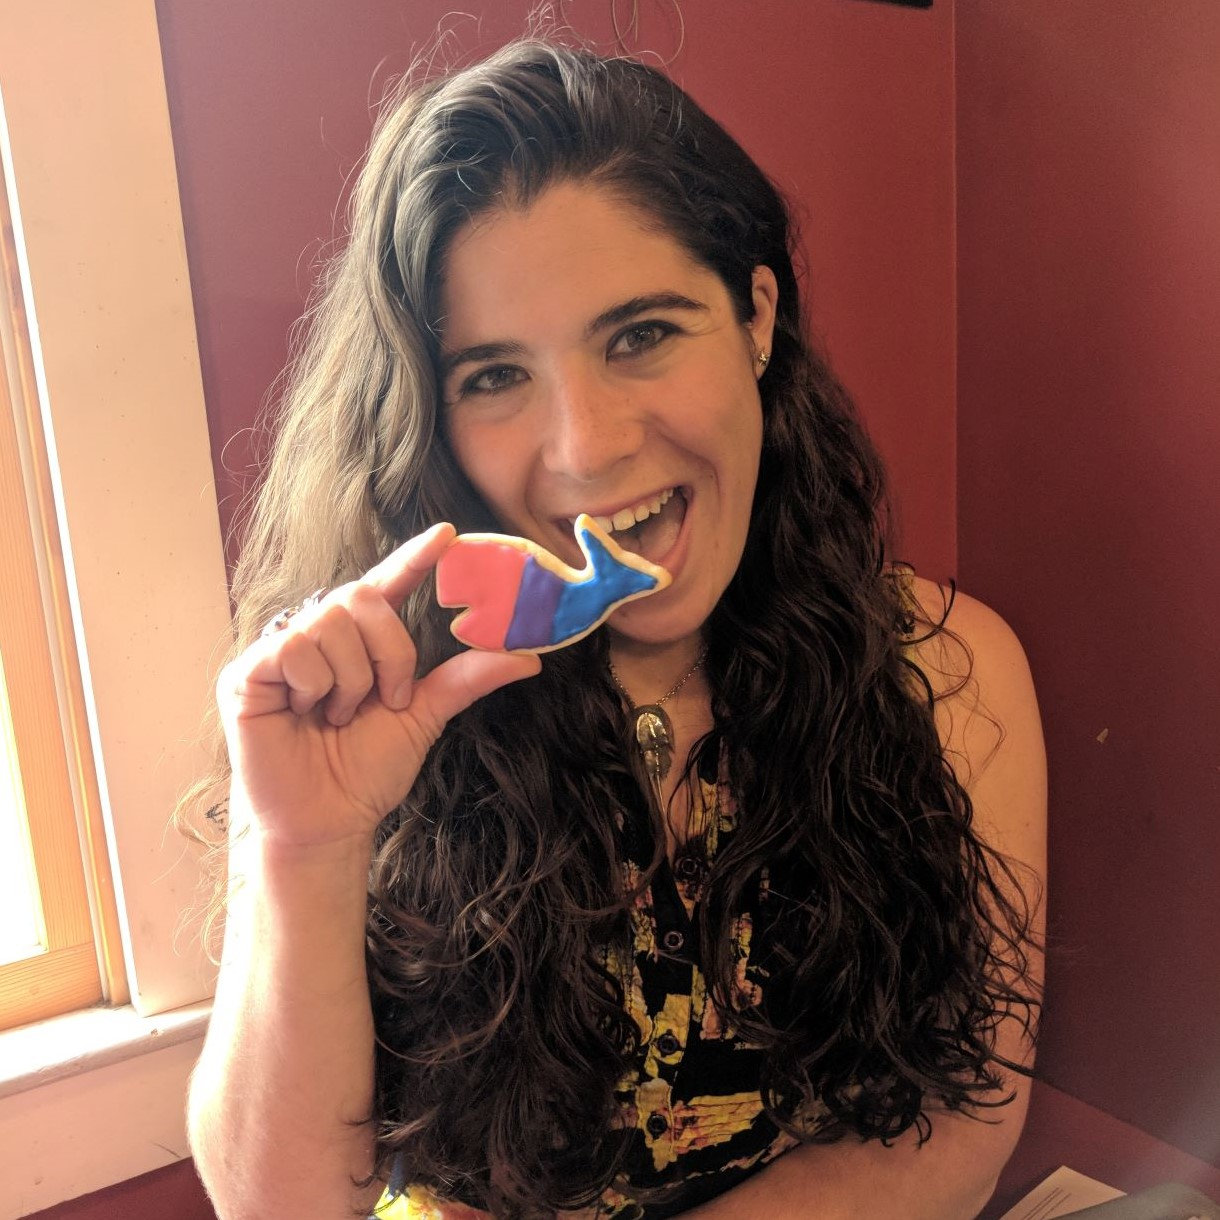
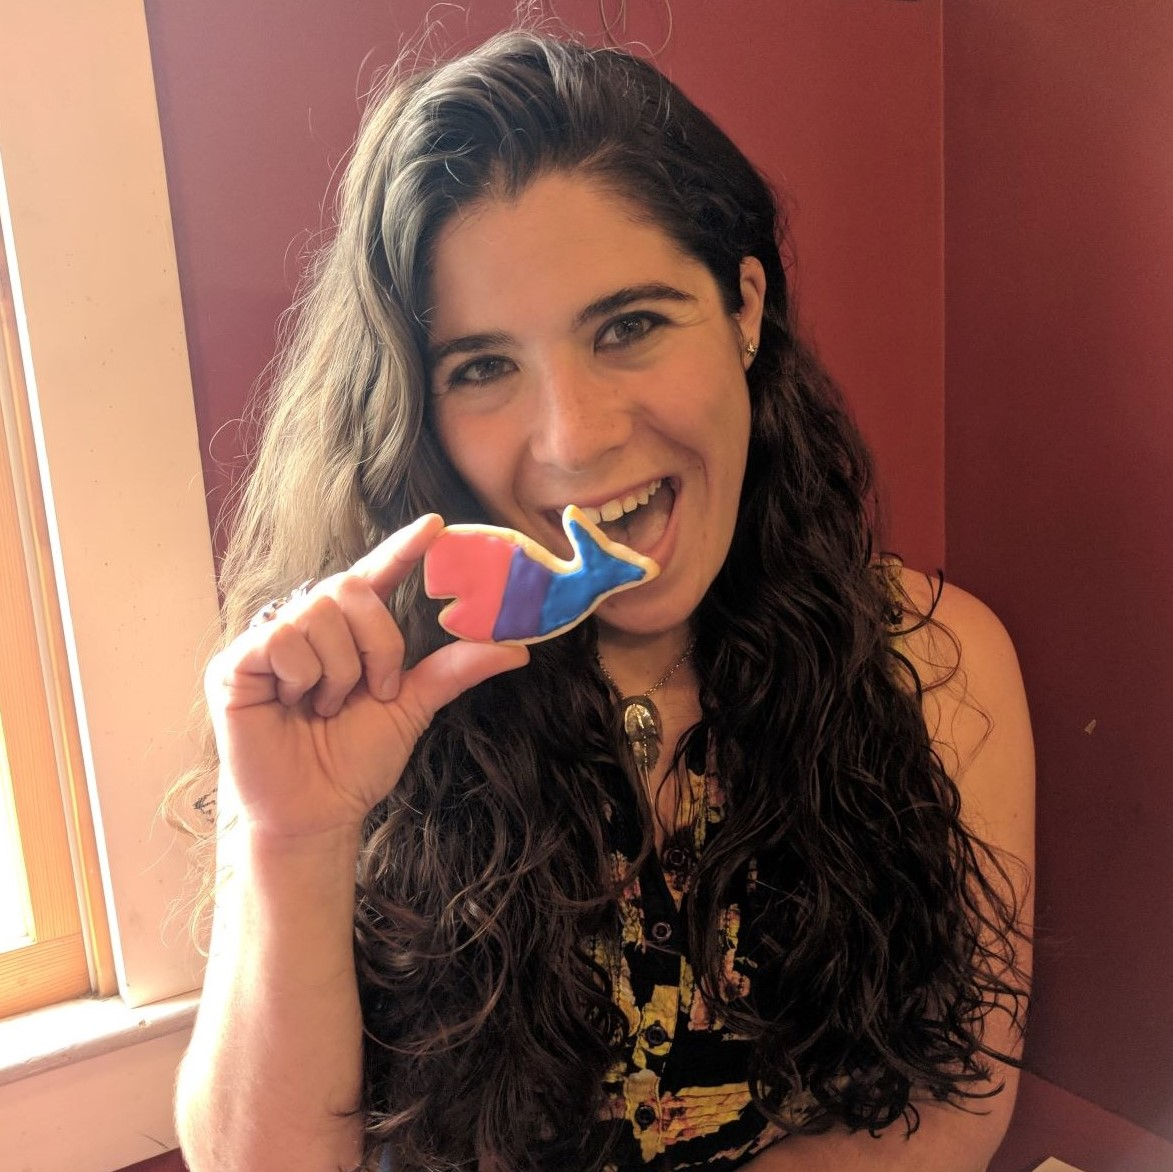
test background images, phoebe/sarah profile pics

diff --git a/about.md b/about.md
@@ -22,7 +22,7 @@ woDNA is composed of 4 AWESOME ladies. we can have photos of us and a little blu
 |Jennifer Smith-Mayo (Jen) is a Communication Ph.D. student at the University of Maine in Orono, Maine. Her advisors are Dr. Bridie McGreavy, Associate Professor of the Department of Communication and Journalism, and Dr. Heather Leslie, Associate Professor of the School of Marine Sciences. Jen’s research areas of interest are science communication, visual communication, and rhetoric. She’s also curious how immersive technology (e.g., an underwater drone or GoPro) and storytelling may offer ways for communities to engage more deeply with the environment, especially our streams, lakes, and oceans. Jen has an extensive background as a photographer and videographer and she lives in Maine with her husband, author Matthew P. Mayo, and their pup, Miss Tess.|Rene Francolini is a PhD student jointly advised by Damian Brady at University of Maine’s Darling Marine Center and Doug Rasher at Bigelow Laboratory for Ocean Sciences. Rene earned her B.S. in Biological Sciences as well as her M.S. in Computational Biology from Carnegie Mellon University. Rene is interested in the impact that climate change has on our coastal environments – particularly on the kelp forests of the Gulf of Maine. Combining field work, computer science, and laboratory work, she is investigating the how the kelp forests and associated ecosystem are adapting and responding to our changing climate. When not in the lab, you can find her enjoying time out in nature, gardening, searching for horseshoe crabs, or baking intricately designed (and sometimes science themed) baked goods! |
 
 
-| `SARAH RISLEY` | `PHOEBE JEKELEIK` |
+| **SARAH RISLEY** | **PHOEBE JEKELEIK** |
 | --- |  --- |
-| ![Jen](https://maine-wodna.github.io/assets/images/JenProfile.jpg) | ![Rene](https://maine-wodna.github.io/assets/images/ReneProfile.jpg)|
+| ![Jen](https://maine-wodna.github.io/assets/images/SarahProfile.jpeg) | ![Rene](https://maine-wodna.github.io/assets/images/PhoebeProfile.jpg)|
 |Jennifer Smith-Mayo (Jen) is a Communication Ph.D. student at the University of Maine in Orono, Maine. Her advisors are Dr. Bridie McGreavy, Associate Professor of the Department of Communication and Journalism, and Dr. Heather Leslie, Associate Professor of the School of Marine Sciences. Jen’s research areas of interest are science communication, visual communication, and rhetoric. She’s also curious how immersive technology (e.g., an underwater drone or GoPro) and storytelling may offer ways for communities to engage more deeply with the environment, especially our streams, lakes, and oceans. Jen has an extensive background as a photographer and videographer and she lives in Maine with her husband, author Matthew P. Mayo, and their pup, Miss Tess.| Rene is a PhD student jointly advised by Damian Brady at University of Maine’s Darling Marine Center and Doug Rasher at Bigelow Laboratory for Ocean Sciences. Rene earned her B.S. in Biological Sciences as well as her M.S. in Computational Biology from Carnegie Mellon University. Rene is interested in the impact that climate change has on our coastal environments – particularly on the kelp forests of the Gulf of Maine. Combining field work, computer science, and laboratory work, she is investigating the how the kelp forests and associated ecosystem are adapting and responding to our changing climate. When not in the lab, you can find her enjoying time out in nature, gardening, searching for horseshoe crabs, or baking intricately designed (and sometimes science themed) baked goods! |

diff --git a/Collection/HorizontalSupplies2.md b/Collection/HorizontalSupplies2.md
@@ -8,10 +8,10 @@ header:
 article_header:
   type: overlay
   align: center
-  theme: dark
+  theme: light
   mode: immersive
   background_image:
-    src: /assets/images/SampleBackground2.jpg
+    src: /assets/images/HI/HI-Supplies1.jpeg
 ---
 
 **THIS PAGE WILL BE IF YOU ARE NOT QUITE READY TO PROPERLY GATHER COLLECTION SUPPLIES**

diff --git a/Collection/HorizontalStoring2.md b/Collection/HorizontalStoring2.md
@@ -8,10 +8,10 @@ header:
 article_header:
   type: overlay
   align: center
-  theme: dark
+  theme: light
   mode: immersive
   background_image:
-    src: /assets/images/SampleBackground2.jpg
+    src: /assets/images/HI/HI-CollectedWater1.jpeg
 ---
 
 **THIS PAGE WILL BE IF YOU ARE NOT QUITE READY TO STORE YOUR WATER PROPERLY**

diff --git a/Collection/HorizontalStoring1.md b/Collection/HorizontalStoring1.md
@@ -8,10 +8,10 @@ header:
 article_header:
   type: overlay
   align: center
-  theme: dark
+  theme: light
   mode: immersive
   background_image:
-    src: /assets/images/SampleBackground2.jpg
+    src: /assets/images/HI/HI-CollectedWater1.jpeg
 ---
 
 **THIS PAGE WILL HAVE INFORMATION ON ANALYSIS of HORIZONTAL qPCR SAMPLES**

diff --git a/Collection/HorizontalSupplies1.md b/Collection/HorizontalSupplies1.md
@@ -8,10 +8,10 @@ header:
 article_header:
   type: overlay
   align: center
-  theme: dark
+  theme: light
   mode: immersive
   background_image:
-    src: /assets/images/SampleBackground2.jpg
+    src: /assets/images/HI/HI-Supplies1.jpeg
 ---
 
 ***SAMPLING SUPPLIES***

diff --git a/Collection/HorizontalBackground.md b/Collection/HorizontalBackground.md
@@ -11,7 +11,7 @@ article_header:
   theme: dark
   mode: immersive
   background_image:
-    src: /assets/images/SampleBackground2.jpg
+    src: /assets/images/HI/HI-BoatDockView.jpeg
 ---
 
 ***Using Horizontal Sampling Collection to Learn About Farmed Scallop eDNA***

diff --git a/Collection/HorizontalFilteringBackground2.md b/Collection/HorizontalFilteringBackground2.md
@@ -11,7 +11,7 @@ article_header:
   theme: dark
   mode: immersive
   background_image:
-    src: /assets/images/SampleBackground2.jpg
+    src: /assets/images/BIG-FILT/FilterRig5.jpeg
 ---
 
 **THIS PAGE WILL BE IF YOU ARE NOT QUITE READY TO FILTER PROPERLY**

diff --git a/Collection/HorizontalCollection2.md b/Collection/HorizontalCollection2.md
@@ -11,7 +11,7 @@ article_header:
   theme: dark
   mode: immersive
   background_image:
-    src: /assets/images/SampleBackground2.jpg
+    src: /assets/images/HI/HI-Boat3.jpeg
 ---
 
 **Note quite! Review your protocol and try again.**

diff --git a/Collection/HorizontalCollection1.md b/Collection/HorizontalCollection1.md
@@ -11,7 +11,7 @@ article_header:
   theme: dark
   mode: immersive
   background_image:
-    src: /assets/images/SampleBackground2.jpg
+    src: /assets/images/HI/HI-Boat3.jpeg
 ---
 
 **Nicely done!**
